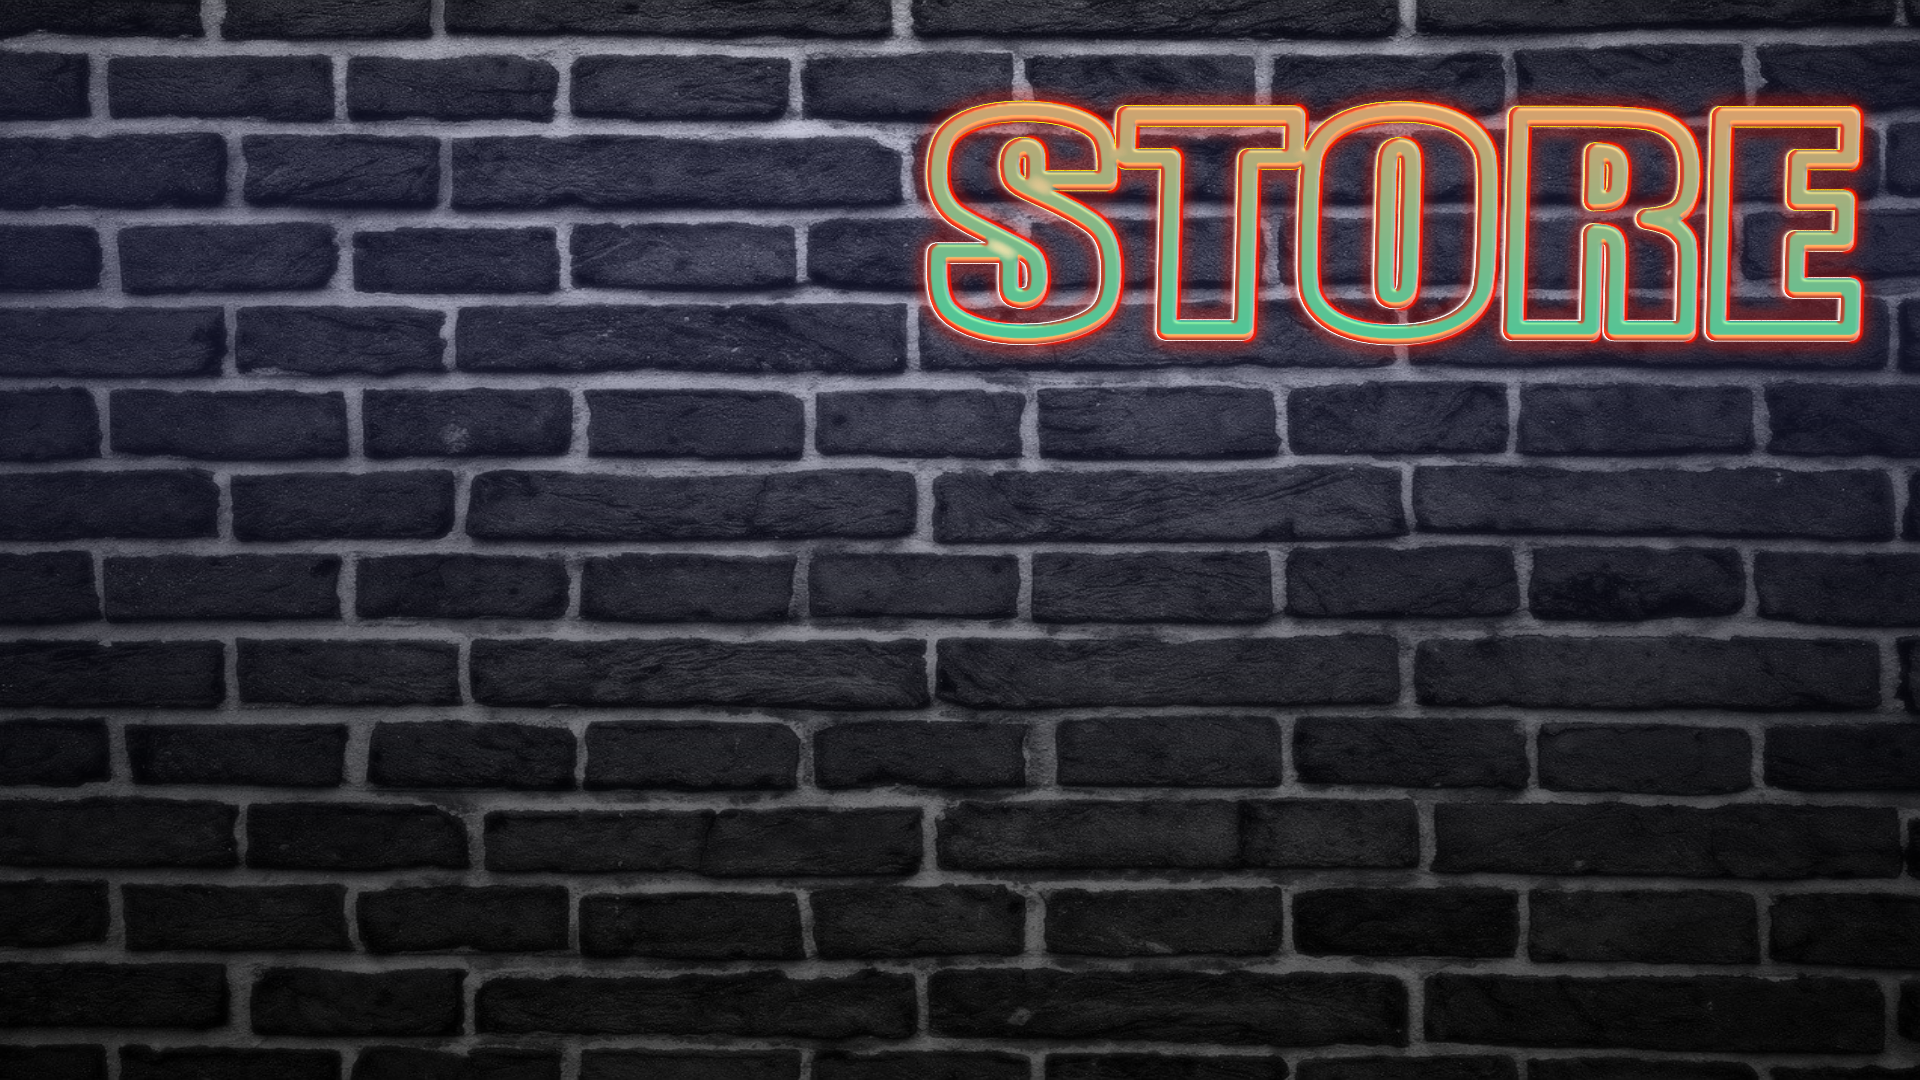
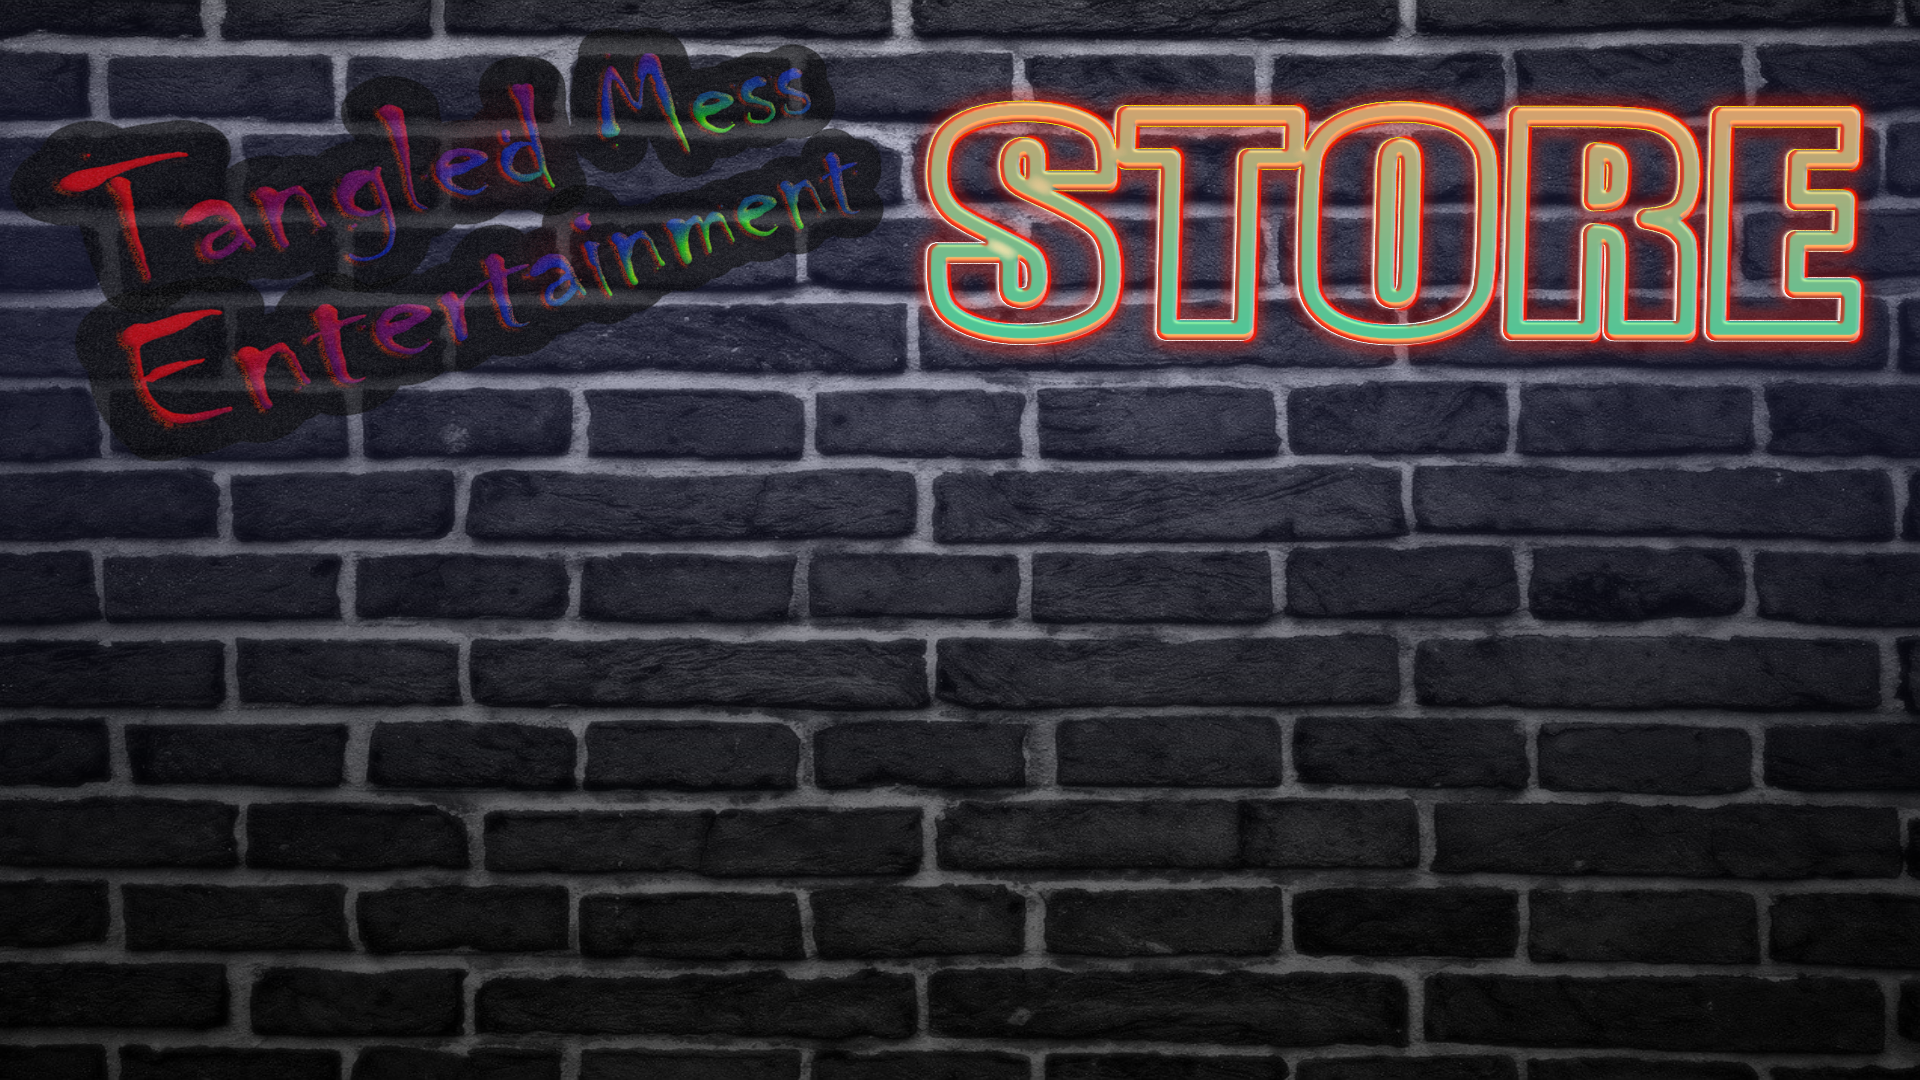
Update Fix

Changed region(s): [[0.0, 0.0306, 0.4688, 0.4278]]

diff --git a/Styles/About.css b/Styles/About.css
@@ -96,7 +96,7 @@ ul {
     background-color: rgba(0, 0, 0, 0.5);
     font-variant: small-caps;
     width: 95%;
-    height: 26vh;
+    height: 40vh;
     border: solid 2px black;
   }
   .InfoPanel h1 {
@@ -163,7 +163,7 @@ ul {
             flex-direction: column;
     position: absolute;
     width: 95%;
-    top: 71vh;
+    top: 85vh;
     background-image: -webkit-gradient(linear, left top, right top, from(red), color-stop(purple), color-stop(blue), to(green));
     background-image: linear-gradient(to right, red, purple, blue, green);
     padding: 2%;

diff --git a/Styles/About.scss b/Styles/About.scss
@@ -83,7 +83,7 @@ ul{
         background-color: rgba(0, 0, 0, 0.5);
         font-variant: small-caps;
         width: 95%;
-        height: 26vh;
+        height: 40vh;
         border: solid 2px black;
         h1{
             color: black;
@@ -129,7 +129,7 @@ ul{
         flex-direction: column;
         position: absolute;
         width: 95%;
-        top: 71vh;
+        top: 85vh;
         background-image: linear-gradient(to right, red, purple, blue, green);
         padding: 2%;
         font-weight: bold;

diff --git a/Styles/Store.scss b/Styles/Store.scss
@@ -198,7 +198,7 @@ ul{
     }
     body{
         background-color: black;
-        background-image: url("../Images/TMEAboutBackground.png");
+        background-image: url("../Images/TMEStoreBackground.png");
         background-position: top left;
         background-repeat: no-repeat;
         background-size: 100vw 100vh;

diff --git a/Styles/Store.css b/Styles/Store.css
@@ -228,7 +228,7 @@ ul {
   }
   body {
     background-color: black;
-    background-image: url("../Images/TMEAboutBackground.png");
+    background-image: url("../Images/TMEStoreBackground.png");
     background-position: top left;
     background-repeat: no-repeat;
     background-size: 100vw 100vh;
